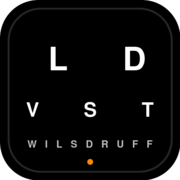
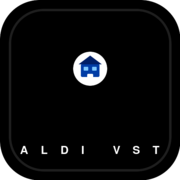
Add files via upload

diff --git a/index.html b/index.html
@@ -138,9 +138,189 @@ input[type=text], input[type=number], select {
   .field { grid-template-columns: 1fr; }
   #map { height: 260px; }
 }
+
+/* —— 10 motivów wyglądu —— */
+body.theme-aero, body.theme-vista {
+  --bg: linear-gradient(160deg,#1a5fb4 0%,#3584e4 40%,#62a0ea 100%);
+  --card: rgba(255,255,255,0.88);
+  --text: #1a2a3a;
+  --accent: #0d47a1;
+  --border: #5a9fd4;
+  --radius: 10px;
+  --bar: linear-gradient(180deg,#4a9aea,#1a5fb4);
+  --btn: linear-gradient(180deg,#e8f4ff,#b8d4f0);
+  --btn-text: #0a3a6a;
+}
+body.theme-xp {
+  --bg: #3a6ea5;
+  --card: #ece9d8;
+  --text: #000;
+  --accent: #0a246a;
+  --border: #0054e3;
+  --radius: 3px;
+  --bar: linear-gradient(180deg,#0a5ad4,#003c9a);
+  --btn: linear-gradient(180deg,#fff,#d4d0c8);
+  --btn-text: #000;
+}
+body.theme-mac {
+  --bg: linear-gradient(180deg,#e8e8ed,#d1d1d6);
+  --card: rgba(255,255,255,0.92);
+  --text: #1d1d1f;
+  --accent: #007aff;
+  --border: #c7c7cc;
+  --radius: 14px;
+  --bar: linear-gradient(180deg,#5ac8fa,#007aff);
+  --btn: #f2f2f7;
+  --btn-text: #007aff;
+}
+body.theme-dark {
+  --bg: linear-gradient(160deg,#0d1117,#161b22 50%,#21262d);
+  --card: #21262d;
+  --text: #e6edf3;
+  --accent: #58a6ff;
+  --border: #30363d;
+  --radius: 10px;
+  --bar: linear-gradient(180deg,#21262d,#0d1117);
+  --btn: #30363d;
+  --btn-text: #e6edf3;
+}
+body.theme-solar {
+  --bg: linear-gradient(160deg,#f5a623,#f7c948 50%,#ffe08a);
+  --card: rgba(255,252,240,0.95);
+  --text: #3d2b00;
+  --accent: #c45c00;
+  --border: #e0a030;
+  --radius: 12px;
+  --bar: linear-gradient(180deg,#f5a623,#c45c00);
+  --btn: #fff3d0;
+  --btn-text: #8a4500;
+}
+body.theme-forest {
+  --bg: linear-gradient(160deg,#1b4332,#2d6a4f 50%,#40916c);
+  --card: rgba(236,250,240,0.95);
+  --text: #081c15;
+  --accent: #1b4332;
+  --border: #52b788;
+  --radius: 10px;
+  --bar: linear-gradient(180deg,#40916c,#1b4332);
+  --btn: #d8f3dc;
+  --btn-text: #1b4332;
+}
+body.theme-rose {
+  --bg: linear-gradient(160deg,#9b2226,#c9184a 50%,#ff4d6d);
+  --card: rgba(255,240,245,0.95);
+  --text: #4a0e1f;
+  --accent: #9b2226;
+  --border: #ff8fab;
+  --radius: 12px;
+  --bar: linear-gradient(180deg,#ff4d6d,#9b2226);
+  --btn: #ffe0e9;
+  --btn-text: #9b2226;
+}
+body.theme-ocean {
+  --bg: linear-gradient(160deg,#023e8a,#0077b6 50%,#00b4d8);
+  --card: rgba(230,248,255,0.95);
+  --text: #03045e;
+  --accent: #0077b6;
+  --border: #48cae4;
+  --radius: 10px;
+  --bar: linear-gradient(180deg,#00b4d8,#023e8a);
+  --btn: #caf0f8;
+  --btn-text: #023e8a;
+}
+body.theme-midnight {
+  --bg: linear-gradient(160deg,#10002b,#240046 50%,#3c096c);
+  --card: #240046;
+  --text: #e0aaff;
+  --accent: #c77dff;
+  --border: #5a189a;
+  --radius: 12px;
+  --bar: linear-gradient(180deg,#7b2cbf,#10002b);
+  --btn: #3c096c;
+  --btn-text: #e0aaff;
+}
+body.theme-classic {
+  --bg: #c0c0c0;
+  --card: #ffffff;
+  --text: #000000;
+  --accent: #000080;
+  --border: #808080;
+  --radius: 0;
+  --bar: linear-gradient(180deg,#000080,#0000a0);
+  --btn: #c0c0c0;
+  --btn-text: #000;
+}
+body {
+  background: var(--bg) !important;
+  color: var(--text);
+  transition: background 0.3s, color 0.2s;
+}
+body .win {
+  background: var(--card);
+  border-radius: var(--radius);
+  border: 1px solid var(--border);
+}
+body .bar {
+  background: var(--bar) !important;
+}
+body .btn {
+  background: var(--btn);
+  color: var(--btn-text);
+  border-color: var(--border);
+  border-radius: var(--radius);
+}
+body .btn-primary {
+  background: linear-gradient(180deg,#4a9aea,#003da5);
+  color: #fff;
+  border-color: #002a70;
+}
+body.theme-xp .btn-primary,
+body.theme-classic .btn-primary {
+  background: linear-gradient(180deg,#3c78d8,#0a246a);
+}
+body .btn-nav {
+  background: linear-gradient(180deg,#4aca6a,#1a9a3a);
+  color: #fff;
+}
+body h1, body .card h2, body .tab.active {
+  color: var(--accent);
+}
+body .tab.active { background: color-mix(in srgb, var(--accent) 12%, transparent); }
+body input[type=text], body input[type=number], body select {
+  border-color: var(--border);
+  border-radius: var(--radius);
+  background: var(--card);
+  color: var(--text);
+}
+body .list, body .card, body #map {
+  border-color: var(--border);
+  border-radius: var(--radius);
+}
+body.theme-dark .list, body.theme-dark .card,
+body.theme-midnight .list, body.theme-midnight .card {
+  background: #1a1a2e;
+}
+body.theme-dark .item:hover, body.theme-midnight .item:hover {
+  background: #2a2a40;
+}
+body .footer { color: #fff; text-shadow: 0 1px 3px rgba(0,0,0,.5); }
+body.theme-mac .footer, body.theme-xp .footer, body.theme-classic .footer, body.theme-solar .footer {
+  color: #222; text-shadow: none;
+}
+.theme-picker {
+  display: flex; flex-wrap: wrap; gap: 8px; margin: 10px 0 14px;
+}
+.theme-picker label {
+  display: flex; align-items: center; gap: 6px;
+  padding: 8px 12px; border-radius: 8px; border: 1px solid var(--border);
+  cursor: pointer; font-size: 0.85rem; font-weight: 600;
+  background: var(--card);
+}
+.theme-picker input { accent-color: var(--accent); }
+
 </style>
 </head>
-<body>
+<body class="theme-aero">
 
 <div id="splash">
   <div class="splash-aldi">ALDI</div>
@@ -234,7 +414,21 @@ input[type=text], input[type=number], select {
       </div>
 
       <div id="p-settings" class="panel">
-        <p class="sub" style="margin-bottom:10px">Import / Eksport danych</p>
+        
+        <p class="sub" style="margin-bottom:6px;font-weight:700">Motyw wyglądu / Theme</p>
+        <div class="theme-picker" id="themePicker">
+          <label><input type="radio" name="thm" value="aero" checked> Aero / Vista</label>
+          <label><input type="radio" name="thm" value="xp"> Windows XP</label>
+          <label><input type="radio" name="thm" value="mac"> macOS</label>
+          <label><input type="radio" name="thm" value="dark"> Dark</label>
+          <label><input type="radio" name="thm" value="solar"> Solar</label>
+          <label><input type="radio" name="thm" value="forest"> Forest</label>
+          <label><input type="radio" name="thm" value="rose"> Rose</label>
+          <label><input type="radio" name="thm" value="ocean"> Ocean</label>
+          <label><input type="radio" name="thm" value="midnight"> Midnight</label>
+          <label><input type="radio" name="thm" value="classic"> Classic Win</label>
+        </div>
+<p class="sub" style="margin-bottom:10px">Import / Eksport danych</p>
         <div class="row">
           <button type="button" class="btn" id="btnJson">JSON</button>
           <button type="button" class="btn" id="btnCsv">CSV</button>
@@ -643,6 +837,29 @@ if ("serviceWorker" in navigator){
     navigator.serviceWorker.register("sw.js").catch(function(){});
   });
 }
+
+
+// Themes
+function setTheme(name){
+  var allowed = ["aero","vista","xp","mac","dark","solar","forest","rose","ocean","midnight","classic"];
+  if (allowed.indexOf(name) < 0) name = "aero";
+  if (name === "vista") name = "aero";
+  document.body.className = "theme-" + name;
+  try { localStorage.setItem("aldi_theme", name); } catch(e){}
+  var radios = document.querySelectorAll('#themePicker input[name="thm"]');
+  radios.forEach(function(r){ r.checked = (r.value === name || (name==="aero" && r.value==="aero")); });
+}
+(function initTheme(){
+  var th = "aero";
+  try { th = localStorage.getItem("aldi_theme") || "aero"; } catch(e){}
+  setTheme(th);
+  var picker = document.getElementById("themePicker");
+  if (picker) {
+    picker.addEventListener("change", function(e){
+      if (e.target && e.target.name === "thm") setTheme(e.target.value);
+    });
+  }
+})();
 
 load();
 document.getElementById("langSelect").dispatchEvent(new Event("change"));

diff --git a/sw.js b/sw.js
@@ -1,4 +1,4 @@
-const C='aldi-vst-simple-1';
+const C='aldi-vst-icon-v2';
 const A=['./','./index.html','./manifest.json','./icon-192.png','./icon-512.png','./apple-touch-icon.png'];
 self.addEventListener('install',e=>{e.waitUntil(caches.open(C).then(c=>c.addAll(A)).then(()=>self.skipWaiting()));});
 self.addEventListener('activate',e=>{e.waitUntil(caches.keys().then(k=>Promise.all(k.filter(x=>x!==C).map(x=>caches.delete(x)))).then(()=>self.clients.claim()));});
